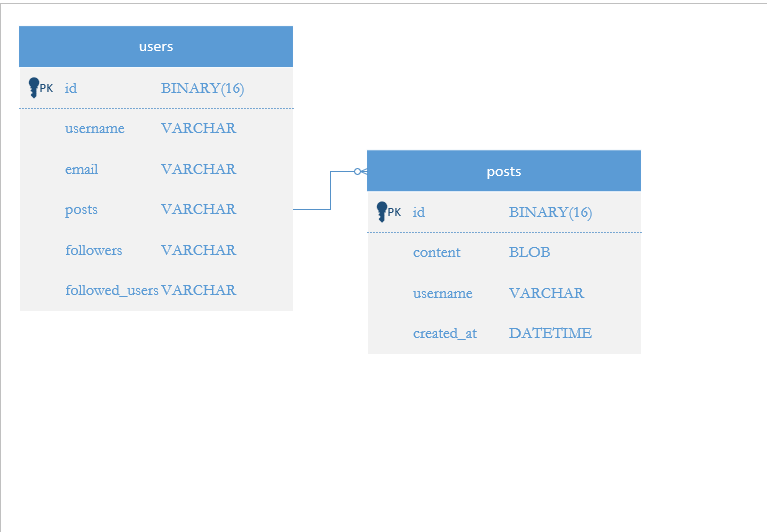
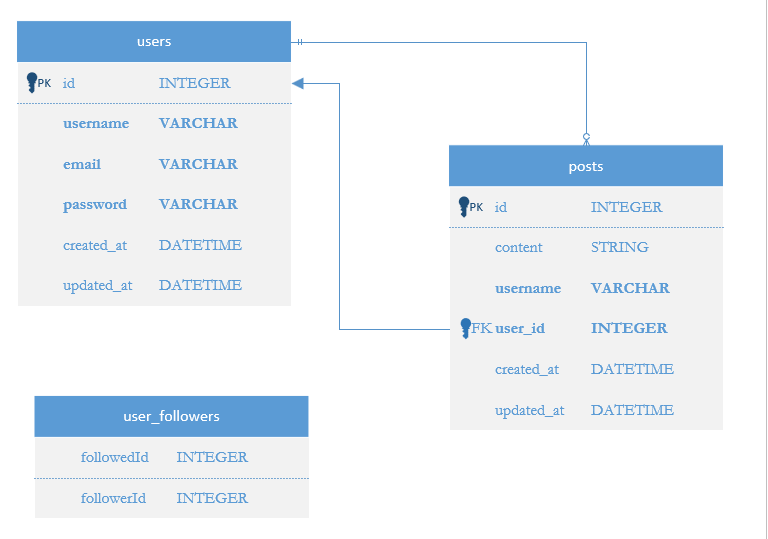
All models and many of their corresponding endpoints have been created

diff --git a/server/app.js b/server/app.js
@@ -1,13 +1,8 @@
 const express = require('express');
 const bodyParser = require('body-parser');
 const cors = require('cors');
-
-const { Sequelize } = require('sequelize');
-const { SEQUELIZE_DB_NAME, SEQUELIZE_USERNAME, SEQUELIZE_PASSWORD } = require('./config.js');
-const sequelize = new Sequelize({
-    dialect: 'sqlite',
-    storage: './database.sqlite'
-});
+const sequelize = require('./database');
+const { User, Post, User_Follower } = require('./models/index.js');
 
 const app = express();
 const port = process.env.PORT || 5050;
@@ -15,9 +10,103 @@ const port = process.env.PORT || 5050;
 app.use(cors());
 app.use(bodyParser.json());
 
+// Get all users (This is purely for demo/testing purposes, as it would be unwieldy and of questionable utility in production)
+app.get('/users', (req, res) => {
+    User
+    .findAll()
+    .then((data) => {
+        console.log(data);
+        res.send(data);
+    });
+});
+
+app.get('/users/:userId', (req, res) => {
+    User.
+    findOne({
+        where: {
+            id: req.params.userId
+        }
+    })
+    .then((user) => {
+        user.getSiblings();
+    });
+});
+
+// Create a user
+app.post('/users', (req, res) => {
+    console.log(User.associations);
+    User
+    .create(req.body)
+    .then((data) => {
+        //console.log(data);
+        res.send(`User has been created.`)
+    });
+});
+
+// Get all posts (Could be useful for some kind of Feed or "wall")
+app.get('/posts', (req, res) => {
+    Post
+    .findAll()
+    .then((data) => {
+        console.log(data);
+        res.send(data);
+    });
+});
+
+// Get all posts by a given User (could be useful for a Search or Filter feature)
+app.get('/posts/:userId', (req, res) => {
+    Post
+    .findAll({
+        where: {
+            user_id: req.params.userId
+        }
+    })
+    .then((data) => {
+        console.log(data);
+        res.send(data);
+    })
+})
+
+// Make a post
+app.post('/posts', (req, res) => {
+    Post
+    .create(req.body)
+    .then((data) => {
+        console.log(data);
+        res.send(`Message has been posted.`);
+    });
+});
+
+// Get all of a user's followers
+app.get('/follow/:userId', (req, res) => {
+    User
+    .findAll({
+        include: {
+            model: User,
+            as: 'follower'
+        },
+        // where: {
+        //     id: req.params.userId
+        // }
+    })
+    .then((data) => {
+        console.log(data);
+        res.send(data);
+    })
+});
+
+app.post('/follow/:userId', (req, res) => {
+    User_Follower
+    .create(req.body)
+    .then((data) => {
+        console.log(data);
+        res.send(`User has been successfully followed.`);
+    });
+});
+
 (async () => {
     try {
-        await sequelize.authenticate();
+        await sequelize.sync({ force: true });
         console.log('Database connection established. . .');
         app.listen(port, () => {
             console.log(`Server listening on port ${port}. . .`);

diff --git a/server/models/index.js b/server/models/index.js
@@ -1,0 +1,33 @@
+const User = require('./User');
+const Post = require('./Post');
+const User_Follower = require('./User_Follower');
+
+User.hasMany(Post, {
+    foreignKey: 'user_id',
+    sourceKey: 'id'
+});
+User.belongsToMany(User, { 
+    through: User_Follower,
+    as: 'followed',
+    foreignKey: 'followed_id'
+});
+User.belongsToMany(User, {
+    through: User_Follower,
+    as: 'follower',
+    foreignKey: 'follower_id'
+});
+Post.belongsTo(User, { 
+    as: 'author',
+    foreignKey: 'user_id',
+    targetKey: 'id'
+});
+User_Follower.belongsTo(User, { 
+    as: 'followed',
+    onDelete: 'CASCADE' 
+});
+User_Follower.belongsTo(User, {
+    as: 'follower',
+    onDelete: 'CASCADE'
+});
+
+module.exports = { User, Post, User_Follower };

diff --git a/server/models/User.js b/server/models/User.js
@@ -1,0 +1,30 @@
+const { Model, DataTypes } = require('sequelize');
+const sequelize = require('../database');
+
+class User extends Model {}
+
+User.init({
+    id: {
+        type: DataTypes.INTEGER,
+        primaryKey: true,
+        allowNull: false,
+        autoIncrement: true
+    },
+    username: {
+        type: DataTypes.STRING,
+        allowNull: false
+    },
+    email: {
+        type: DataTypes.STRING,
+        allowNull: false
+    },
+    password: {
+        type: DataTypes.STRING,
+        allowNull: false
+    },
+}, {
+    sequelize,
+    modelName: 'user'
+});
+
+module.exports = User;

diff --git a/server/models/Post.js b/server/models/Post.js
@@ -1,0 +1,28 @@
+const { Model, DataTypes } = require('sequelize');
+const sequelize = require('../database');
+
+class Post extends Model {}
+
+Post.init({
+    id: {
+        type: DataTypes.INTEGER,
+        primaryKey: true,
+        allowNull: false,
+        autoIncrement: true
+    },
+    content: {
+        type: DataTypes.STRING,
+    },
+    username: {
+        type: DataTypes.STRING,
+        allowNull: false
+    },
+    user_id: {
+        type: DataTypes.INTEGER
+    }
+}, {
+    sequelize,
+    modelName: 'post'
+});
+
+module.exports = Post;

diff --git a/server/models/User_Follower.js b/server/models/User_Follower.js
@@ -1,0 +1,19 @@
+const { Model, DataTypes } = require('sequelize');
+const sequelize = require('../database');
+const User = require('./User');
+
+class User_Follower extends Model {}
+
+User_Follower.init({
+    // follower_id: {
+    //     type: DataTypes.INTEGER
+    // },
+    // followed_id: {
+    //     type: DataTypes.INTEGER
+    // }
+}, {
+    sequelize,
+    modelName: 'user_follower',
+});
+
+module.exports = User_Follower;

diff --git a/server/database.js b/server/database.js
@@ -1,0 +1,8 @@
+const { Sequelize } = require('sequelize');
+const { SEQUELIZE_DB_NAME, SEQUELIZE_USERNAME, SEQUELIZE_PASSWORD } = require('./config');
+const sequelize = new Sequelize({
+    dialect: 'sqlite',
+    storage: './database.sqlite'
+});
+
+module.exports = sequelize;

diff --git a/README.md b/README.md
@@ -11,6 +11,7 @@ by other users will be taken into consideration.
 - [Diagram](#diagram)
 - [Schema](#schema)
 - [Explanation](#explanation)
+- [Q&A](#q%20&%20a)
 
 # Installation
 [(Back to top)](#table-of-contents)
@@ -54,7 +55,7 @@ The following parameters will be observed (please note that due to time constrai
 
 - A userbase of approx. 300m users will be assumed (approx. population of the U.S.)
 - Approximately 100m concurrent users will be assumed (~1/3 of total userbase)
-- Around 150m daily posts (which may be text, images, videos, URLs, ...)
+- Around 150m daily posts (we will assume all posts are text-only for simplicity's sake)
 
 A basic Visio network/database diagram will be included along with the code files. The logic/data flow of the diagram is as follows:
 
@@ -65,16 +66,24 @@ every post is linked to a user, and in a larger/more complex application, those 
 in nature. In the event that large files must be stored (Webms or other video files, for example), a File Store could be used, but this is not mandatory and will
 not be implemented in the code as this is meant to be a basic app for demonstration purposes only.
 
-It should be noted that the posts, followers, and followed users in the users table will be stored as comma-separated strings. This is sub-optimal from a performance
-standpoint, as a more optimal solution would be to use lookup/pivot tables that link, for example, users and followers in this way:
+Please note that all code has been kept as simple as possible as per requester's instructions, and also due to time constraints. Thus, things such as input validation
+and error checking/handling will not be done.
 
-users_followers table
+# Q & A
+[(Back to top)](#table-of-contents)
 
-id_user | id_follower
----------------------
-1       |       2
-2       |       3
-4       |       1
-...     |       ...
+### Why did you use an auto-incremented INTEGER for ids? Isn't that a bit unsafe?
 
-However, as this project is only meant to be a demo, I will be using the comma-separated string method (again, due to time constraints).
+Typically I would use something like a UUID for ids, but SQLite doesn't support a BOOLEAN(16) type for ids, and storing UUIDs in a STRING
+would complicate the implementation of the pivot tables, so I decided to keep it simple and just use auto-incremented integers.
+
+### Why did you use the STRING type for Posts? Posts can contain images or videos too, can't they?
+
+This is a similar question to the one above, and the answer is similar as well. I'd typically use something like a BLOB for a post,
+but for simplicity's sake I decided to stick to just the bare basics of what constitutes a post (text). This should suffice for the 
+purposes of this exercise.
+
+### Why are you using sync() instead of migrations? Aren't migrations better and more reliable/efficient?
+
+Yes, but they're also more time-consuming to set up, and unfortunately, I'm on a bit of a tight schedule.
+
